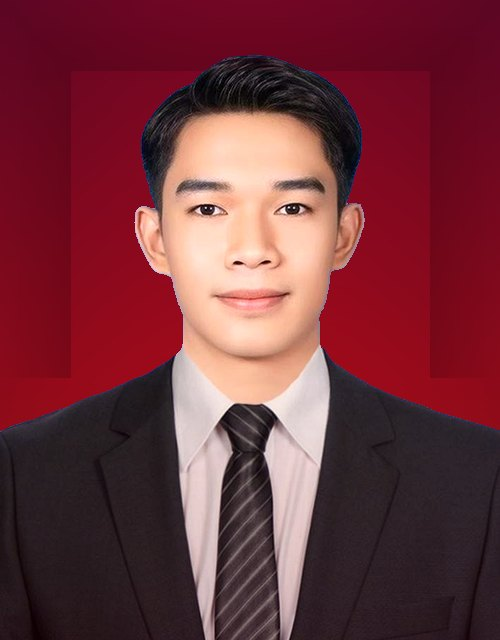
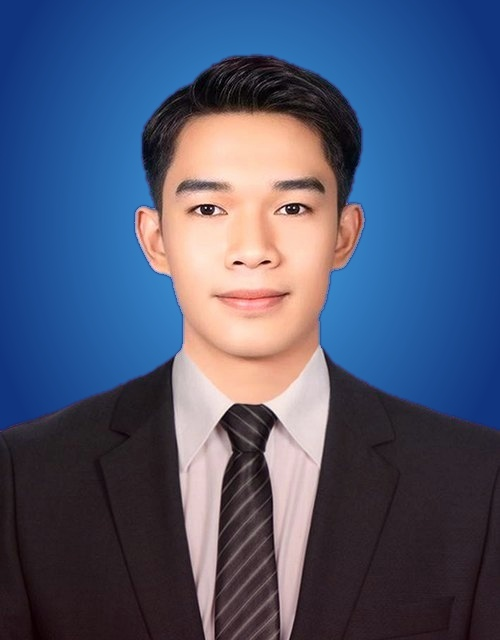
style: replace red studio background in portrait photo with official civil service royal navy & sky blue gradient

diff --git a/index.html b/index.html
@@ -279,7 +279,7 @@
       margin: 0 auto 1.25rem;
       border-radius: var(--radius-lg);
       overflow: hidden;
-      box-shadow: 0 10px 20px rgba(15, 39, 74, 0.15);
+      box-shadow: 0 12px 28px rgba(2, 132, 199, 0.22), 0 0 0 2px #bae6fd;
       border: 3px solid white;
     }
 

diff --git a/website/index.html b/website/index.html
@@ -279,7 +279,7 @@
       margin: 0 auto 1.25rem;
       border-radius: var(--radius-lg);
       overflow: hidden;
-      box-shadow: 0 10px 20px rgba(15, 39, 74, 0.15);
+      box-shadow: 0 12px 28px rgba(2, 132, 199, 0.22), 0 0 0 2px #bae6fd;
       border: 3px solid white;
     }
 
